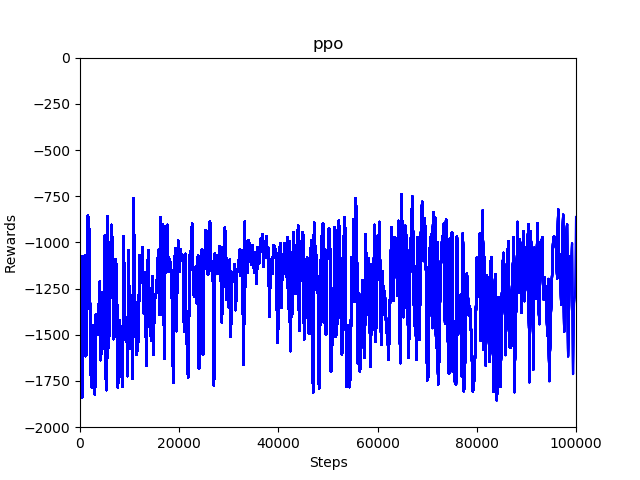
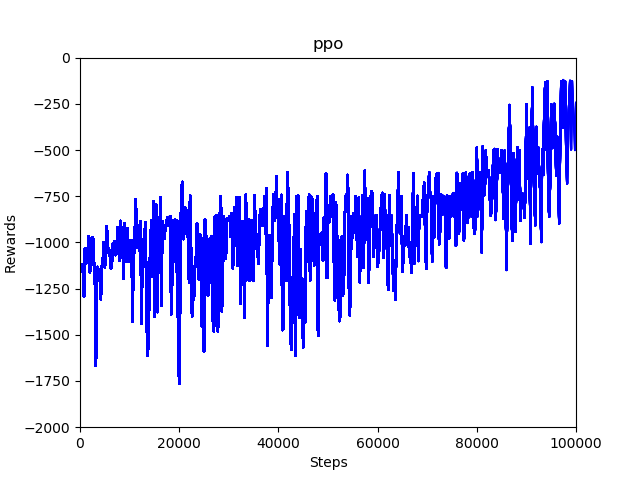
Normalise advantages and tune TRPO + PPO

Changed region(s): [[0.125, 0.1562, 0.9062, 0.8438]]

diff --git a/vpg.py b/vpg.py
@@ -41,8 +41,10 @@ for step in pbar:
           advantage = td_error + (1 - transition['done']) * DISCOUNT * TRACE_DECAY * advantage
           transition['advantage'] = advantage
           next_value = transition['value']
-      # Extra step: turn trajectories into a single batch for efficiency (valid for feedforward networks)
+      # Turn trajectories into a single batch for efficiency (valid for feedforward networks)
       trajectories = {k: torch.cat([trajectory[k] for trajectory in D], dim=0) for k in D[0].keys()}
+      # Extra step: normalise advantages
+      trajectories['advantage'] = (trajectories['advantage'] - trajectories['advantage'].mean()) / (trajectories['advantage'].std() + 1e-8)
       D = []
 
       # Estimate policy gradient and compute policy update

diff --git a/ppo.py b/ppo.py
@@ -41,8 +41,10 @@ for step in pbar:
           advantage = td_error + (1 - transition['done']) * DISCOUNT * TRACE_DECAY * advantage
           transition['advantage'] = advantage
           next_value = transition['value']
-      # Extra step: turn trajectories into a single batch for efficiency (valid for feedforward networks)
+      # Turn trajectories into a single batch for efficiency (valid for feedforward networks)
       trajectories = {k: torch.cat([trajectory[k] for trajectory in D], dim=0) for k in D[0].keys()}
+      # Extra step: normalise advantages
+      trajectories['advantage'] = (trajectories['advantage'] - trajectories['advantage'].mean()) / (trajectories['advantage'].std() + 1e-8)
       D = []
 
       for epoch in range(PPO_EPOCHS):

diff --git a/trpo.py b/trpo.py
@@ -65,8 +65,10 @@ for step in pbar:
           advantage = td_error + (1 - transition['done']) * DISCOUNT * TRACE_DECAY * advantage
           transition['advantage'] = advantage
           next_value = transition['value']
-      # Extra step: turn trajectories into a single batch for efficiency (valid for feedforward networks)
+      # Turn trajectories into a single batch for efficiency (valid for feedforward networks)
       trajectories = {k: torch.cat([trajectory[k] for trajectory in D], dim=0) for k in D[0].keys()}
+      # Extra step: normalise advantages
+      trajectories['advantage'] = (trajectories['advantage'] - trajectories['advantage'].mean()) / (trajectories['advantage'].std() + 1e-8)
       D = []
 
       # Estimate policy gradient

diff --git a/hyperparams.py b/hyperparams.py
@@ -8,16 +8,16 @@ DISCOUNT = 0.99
 EPSILON = 0.05
 ENTROPY_WEIGHT = 0.2
 HIDDEN_SIZE = 32
-KL_LIMIT = 0.01
+KL_LIMIT = 0.05
 LEARNING_RATE = 0.001
 MAX_STEPS = 100000
 ON_POLICY_BATCH_SIZE = 2048
 OFF_POLICY_BATCH_SIZE = 128
 POLICY_DELAY = 2
-POLICY_LEARNING_RATE = 0.0003
+POLICY_LEARNING_RATE = 0.003
 POLYAK_FACTOR = 0.995
 PPO_CLIP_RATIO = 0.2
-PPO_EPOCHS = 10
+PPO_EPOCHS = 20
 REPLAY_SIZE = 100000
 TARGET_ACTION_NOISE = 0.2
 TARGET_ACTION_NOISE_CLIP = 0.5
